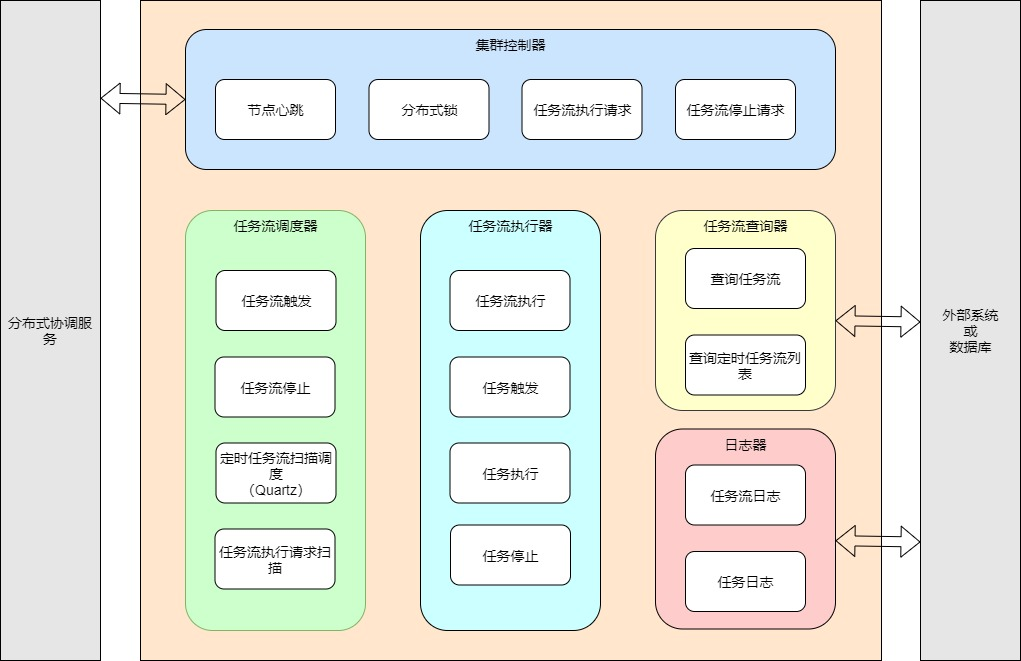
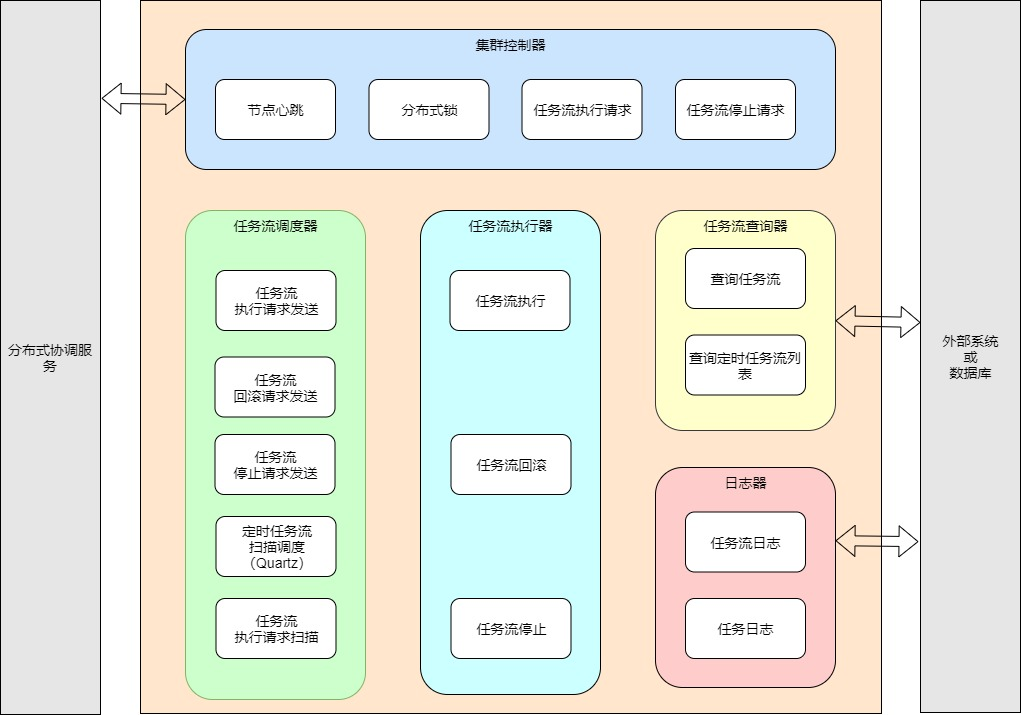
更新文档

diff --git a/README.md b/README.md
@@ -2,7 +2,7 @@
 
 ## 简介
 
-wolf-flow 是一个简单的、支持有向无环图（DAG）的轻量级作业调度框架。
+wolf-flow 是一个简单的、支持有向无环图（DAG）的轻量级作业调度引擎。
 
 ## 功能特点
 
@@ -97,7 +97,12 @@ public class MyTask extends Task {
     public void execute(Map<String, Object> context) throws TaskExecuteException, TaskInterruptedException {
         // TODO 执行任务
     }
-
+    
+    @Override
+    public void rollback(Map<String, Object> context) throws TaskRollbackException, TaskInterruptedException {
+        // TODO 回滚任务
+    }
+    
     @Override
     public void stop(Map<String, Object> context) throws TaskStopException {
         // TODO 停止任务
@@ -122,6 +127,59 @@ public void test() {
 
 请参考示例程序：`wolf-flow-sample` 和 `wolf-flow-sample-cluster`
 
+## 基本概念
+
+### 任务（Task）
+
+任务是最小的工作单元，是实现作业步骤的实体。
+
+任务定义了若干个接口，例如执行任务、回滚任务、停止任务等，根据不同业务场景可以有不同的实现。
+
+### 连接（Link）
+
+连接用于表示不同任务之间的顺序关系，连接是有向的，表示在某个任务执行完成后执行另一个任务。
+
+### 任务流（Task Flow）
+
+任务流是多个任务和多个连接的组合，通过编排任务和任务之间的连接，形成实现某个具体事务的任务流。
+
+任务流可以立即/定时执行，停止和回滚。
+
+### 上下文（Context）
+
+上下文是执行期间任务流内共享的环境变量，任务中可以直接访问和修改上下文。上下文主要分为任务流上下文和任务上下文，结构大致如下：
+
+``` json
+{
+    "taskFlowId" : 100, // 任务流ID
+    "logId" : 10000,  // 任务流日志ID
+    "..." : "...",  // 任务流的其他上下文
+    "taskContexts" : {  // 任务上下文
+        "1" : {  // 任务1的上下文
+            "logId" : 10001,  // 任务1的任务日志ID
+            "parentTaskIdList" : [  // 任务1的父任务ID列表
+            ],
+            "..." : "..."  // 任务1的其他上下文
+        },
+        "2" : {
+            "logId" : 10002,
+            "parentTaskIdList" : [
+                1
+            ],
+            "..." : "..."
+        }
+    }
+}
+```
+
+### 任务流日志（Task Flow Log）
+
+任务流日志是任务流的执行记录，包含某次执行的任务流状态、上下文和执行时间等数据，一次任务流执行产生一条任务流日志。
+
+### 任务日志（Task Log）
+
+任务日志是任务的执行记录，包含某次执行的任务状态、上下文和执行时间等数据，一次任务执行产生一条任务日志。
+
 ## 架构设计
 
 ### 架构图
@@ -138,6 +196,54 @@ public void test() {
 
 ![集群模式](docs/集群模式.jpg)
 
-### 任务流生命周期
+### 任务流执行
 
-![任务流生命周期](docs/任务流生命周期.jpg)
+![任务流执行](docs/任务流执行.jpg)
+
+执行任务流时，根据任务流编排的方向有序执行。
+
+每个任务依次执行 `beforeExecute() ` ， `execute() ` 和 `afterExecute() ` 接口。
+
+当任务1执行完成后，任务2和任务3会并行执行，任务4则会等待任务2执行完成后再开始执行。
+
+最大并行任务数取决于任务流执行器的线程池最大线程数。
+
+**任务流执行生命周期：**
+
+![任务流执行生命周期](docs/任务流执行生命周期.jpg)
+
+### 任务流回滚
+
+![任务流回滚](docs/任务流回滚.jpg)
+
+任务流回滚的时候，则是反向顺序执行。
+
+每个任务依次执行 `beforeRollback() ` ， `rollback() ` 和 `afterRollback() ` 接口。
+
+由于任务3和任务4没有依赖任务，所以最先开始回滚。任务1则会等待任务2和任务3都回滚成功才会开始回滚。
+
+同样，最大并行任务数取决于任务流执行器的线程池最大线程数。
+
+**任务流回滚生命周期：**
+
+![任务流回滚生命周期](docs/任务流回滚生命周期.jpg)
+
+### 事件发布与监听
+
+引擎运行期间，特定事件发生时会发布事件通知，目前主要有以下事件：
+
+- 任务流定时调度状态变更事件：当一条任务流加入或更新定时调度，以及定时调度失败时发生。
+- 任务流状态变更事件：当任务流变更为”等待执行“、”执行中“、”执行成功“等状态时发生。
+- 任务状态变更事件：当任务变更为”等待执行“、”执行中“、”执行成功“等状态时发生。
+
+事件的发布与订阅使用是 Spring 的事件机制，需要订阅时定义一个事件监听器，参考如下：
+
+``` java
+    @EventListener
+    public void taskFlowStatusChange(TaskFlowStatusChangeEvent event) {
+        Long taskFlowId = event.getTaskFlowStatus().getTaskFlow().getId();
+        String status = event.getTaskFlowStatus().getStatus();
+        System.out.println(">>>>>>>>> 任务流[" + taskFlowId + "]状态变更为：" + status);
+    }
+```
+
